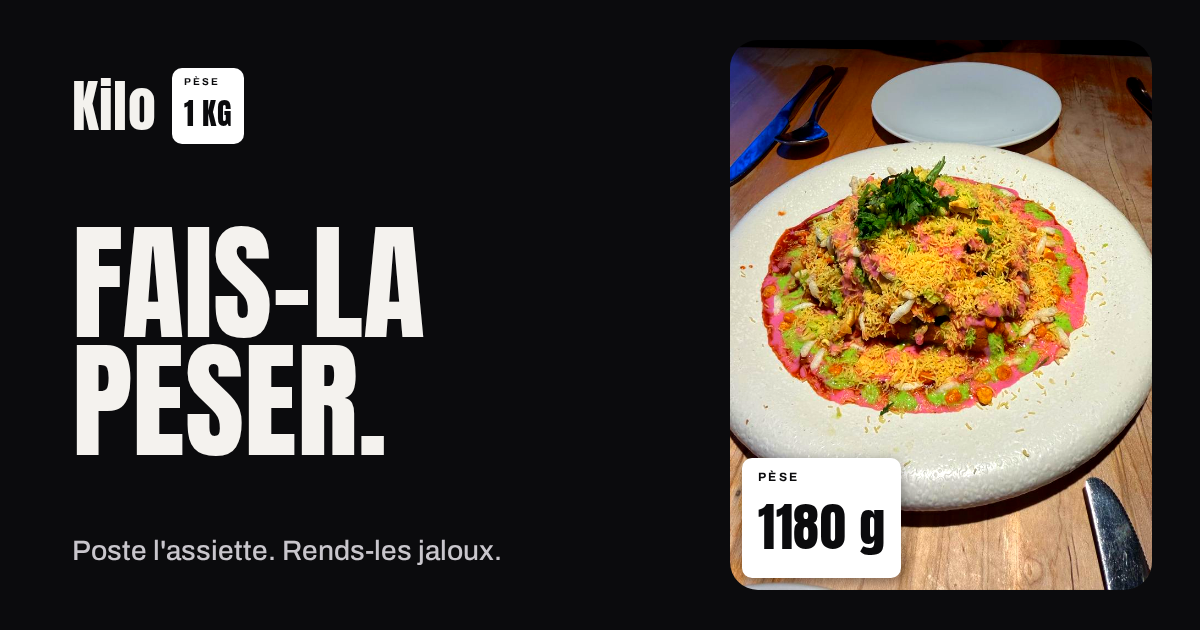
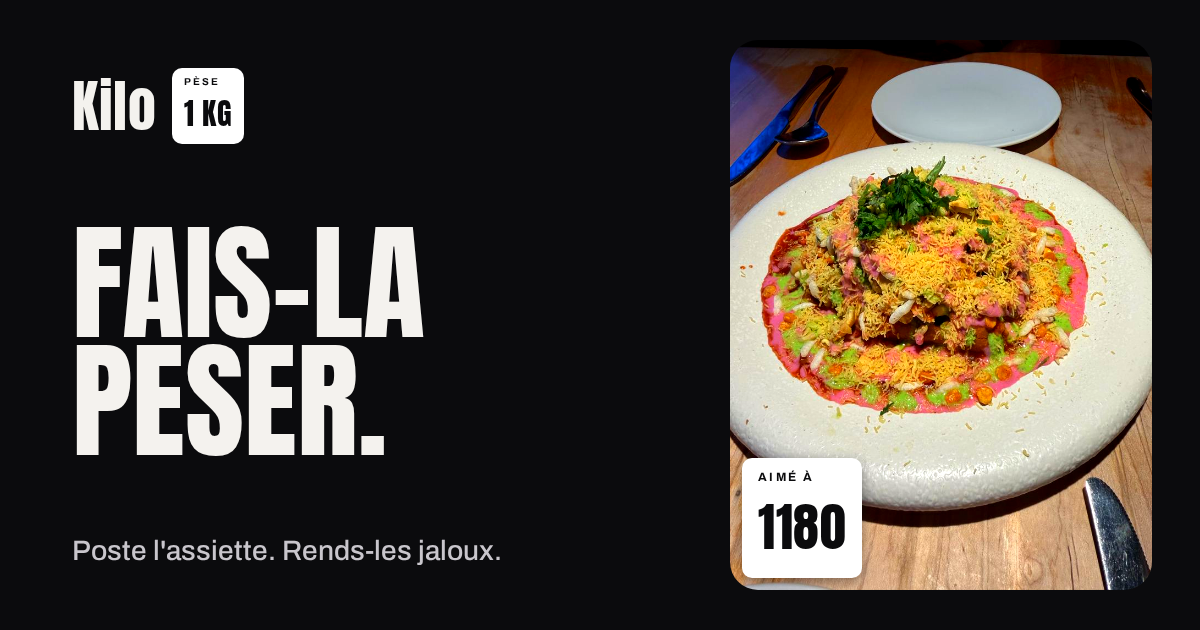
Love scale instead of grams

Changed region(s): [[0.7092, 0.7238, 0.7708, 0.9349], [0.6475, 0.754, 0.6783, 0.7841]]

diff --git a/fr/index.html b/fr/index.html
@@ -1,7 +1,7 @@
 <!doctype html><html lang="fr-CA"><head><meta charset="utf-8"><meta name="viewport" content="width=device-width,initial-scale=1">
 <title>Kilo — Fais-la peser.</title>
 <link rel="canonical" href="https://ymatagne.github.io/kilo-landing/fr/"><link rel="alternate" hreflang="en-CA" href="https://ymatagne.github.io/kilo-landing/"><link rel="alternate" hreflang="fr-CA" href="https://ymatagne.github.io/kilo-landing/fr/"><link rel="alternate" hreflang="x-default" href="https://ymatagne.github.io/kilo-landing/">
-<meta property="og:type" content="website"><meta property="og:site_name" content="Kilo"><meta property="og:title" content="Kilo — Fais-la peser."><meta property="og:description" content="Le réseau bouffe entre chums seulement. Poste ton assiette. Fais-la peser. Rends-les jaloux."><meta property="og:image" content="https://ymatagne.github.io/kilo-landing/og-fr.png"><meta property="og:image:width" content="1200"><meta property="og:image:height" content="630"><meta property="og:image:alt" content="Kilo : Fais-la peser. Une assiette de papdi chaat avec un collant qui affiche 1180 g."><meta property="og:url" content="https://ymatagne.github.io/kilo-landing/fr/"><meta property="og:locale" content="fr_CA"><meta property="og:locale:alternate" content="en_CA"><meta name="twitter:card" content="summary_large_image"><meta name="twitter:image" content="https://ymatagne.github.io/kilo-landing/og-fr.png">
+<meta property="og:type" content="website"><meta property="og:site_name" content="Kilo"><meta property="og:title" content="Kilo — Fais-la peser."><meta property="og:description" content="Le réseau bouffe entre chums seulement. Poste ton assiette. Fais-la peser. Rends-les jaloux."><meta property="og:image" content="https://ymatagne.github.io/kilo-landing/og-fr.png"><meta property="og:image:width" content="1200"><meta property="og:image:height" content="630"><meta property="og:image:alt" content="Kilo : Fais-la peser. Une assiette de papdi chaat avec un collant qui dit Aimé à 1180."><meta property="og:url" content="https://ymatagne.github.io/kilo-landing/fr/"><meta property="og:locale" content="fr_CA"><meta property="og:locale:alternate" content="en_CA"><meta name="twitter:card" content="summary_large_image"><meta name="twitter:image" content="https://ymatagne.github.io/kilo-landing/og-fr.png">
 <link rel="icon" href="../favicon.ico" sizes="any"><link rel="icon" type="image/png" sizes="32x32" href="../favicon-32.png"><link rel="apple-touch-icon" href="../apple-touch-icon.png"><meta name="theme-color" content="#0B0B0D"><meta name="description" content="Kilo, le réseau bouffe entre chums seulement. Poste ton assiette. Fais-la peser. Rends-les jaloux.">
 <link rel="preconnect" href="https://fonts.googleapis.com"><link rel="preconnect" href="https://fonts.gstatic.com" crossorigin>
 <link href="https://fonts.googleapis.com/css2?family=Anton&family=Archivo:wght@400;500;700&display=swap" rel="stylesheet">
@@ -14,11 +14,11 @@
  <div class="hero-copy"><p class="eyebrow">Réseau bouffe, entre chums seulement</p><h1>Fais-la peser.</h1>
  <p class="lede">Poste l'assiette. Fais-la peser. Rends-les jaloux.</p>
  <p class="quiet">Le réseau bouffe pour ceux qui commandent la deuxième poutine. Pas de calories, pas d'étoiles, pas d'inconnus.</p>
- <div class="row"><a href="#join" class="btn btn-ink">Mets ton nom sur la liste</a><a href="#heft" class="btn btn-ghost">Essaie le Poids</a></div></div>
- <div class="phone" role="img" aria-label="Carte du fil Kilo : Marco a posté un papdi chaat à Toronto, pèse 1180 grammes, Ça vaut la peine : Oui">
+ <div class="row"><a href="#join" class="btn btn-ink">Mets ton nom sur la liste</a><a href="#love" class="btn btn-ghost">Essaie l'Amour</a></div></div>
+ <div class="phone" role="img" aria-label="Carte du fil Kilo : Marco a posté un papdi chaat à Toronto, aimé à 1180, Ça vaut la peine : Oui">
   <div class="phone-in"><div class="pbar"><span class="pt">Les Gros Sacs</span><span class="meta">gang de 6</span></div>
    <article class="card"><div class="chead"><span class="av">M</span><div><b>Marco</b><span class="meta">Toronto · 1 h 12</span></div><span class="chip">Ça vaut la peine · Oui</span></div>
-   <div class="photo"><picture><source srcset="../hero-plate.webp" type="image/webp"><img src="../hero-plate.jpg" width="800" height="1000" alt="" style="filter:saturate(1.35) contrast(1.15)"></picture><span class="sticker on-photo"><small>PÈSE</small><b>1180 g</b><em>Une unité absolue de repas.</em></span></div>
+   <div class="photo"><picture><source srcset="../hero-plate.webp" type="image/webp"><img src="../hero-plate.jpg" width="800" height="1000" alt="" style="filter:saturate(1.35) contrast(1.15)"></picture><span class="sticker on-photo"><small>AIMÉ À</small><b>1180</b><em>Je marierais cette assiette-là.</em></span></div>
    <p class="dish">Papdi chaat, extra sev</p><div class="acts"><span class="chip on">Jaloux · 5</span><span class="chip">Même place?</span></div></article>
   </div></div>
 </section>
@@ -26,17 +26,17 @@
 <section class="how wrap" aria-labelledby="how-h"><p class="eyebrow">Comment ça marche</p><h2 id="how-h">Moins de 20 secondes, de l'assiette au fil.</h2>
 <ol class="steps">
 <li><span class="n">01</span><h3>Shoote</h3><p>La caméra s'ouvre direct. L'assiette refroidit déjà.</p></li>
-<li><span class="n">02</span><h3>Filtre + Poids</h3><p>Choisis un des trois looks. Glisse le Poids jusqu'à ce que ça ait l'air de ce que c'était.</p></li>
+<li><span class="n">02</span><h3>Filtre + Amour</h3><p>Choisis un des trois looks. Glisse l'Amour jusqu'à ce que le chiffre fitte avec le feeling.</p></li>
 <li><span class="n">03</span><h3>Ça vaut la peine?</h3><p>Oui ou Non. Ce tap-là publie. Pas d'écran de révision.</p></li>
 <li><span class="n">04</span><h3>Ta gang de 6</h3><p>Ça atterrit dans le fil de ta gang. Personne d'autre. Jamais d'inconnus.</p></li>
 </ol></section>
 
-<section id="heft" class="heft wrap" aria-labelledby="heft-h"><div class="heft-copy"><p class="eyebrow">Le Poids</p><h2 id="heft-h">Les grammes, c'est un score. Pas une balance.</h2>
-<p class="quiet">C'est toi qui décides. On ne pèse jamais l'assiette. Le collant va d'un raisonnable 320 g à un kilo et demi, et c'est ça, la joke.</p>
-<label for="heftIn" class="lbl">Poids <output id="heftOut" for="heftIn">55</output></label>
-<input id="heftIn" type="range" min="0" max="100" value="55" aria-describedby="verdict">
-<p id="verdict" class="verdict" aria-live="polite">Belle assiette. Sieste en vue.</p></div>
-<div class="photo big"><picture><source srcset="../heft-plate.webp" type="image/webp"><img id="heftImg" src="../heft-plate.jpg" width="1200" height="1200" loading="lazy" decoding="async" alt="Sauté thaï au basilic avec riz et œuf frit"></picture><span class="sticker on-photo lg"><small>PÈSE</small><b id="grams">947 g</b></span></div>
+<section id="love" class="love wrap" aria-labelledby="love-h"><div class="love-copy"><p class="eyebrow">Le curseur d'Amour</p><h2 id="love-h">Le chiffre, c'est de l'amour. Rien d'autre.</h2>
+<p class="quiet">C'est toi qui décides. On ne mesure jamais l'assiette, on te demande juste ce que tu ressens pour elle. Le score va d'un poli 320 à un 1460 complètement épris, et l'assiette a pas besoin de te le dire en retour.</p>
+<label for="loveIn" class="lbl">Amour <output id="loveOut" for="loveIn">55</output></label>
+<input id="loveIn" type="range" min="0" max="100" value="55" aria-describedby="verdict">
+<p id="verdict" class="verdict" aria-live="polite">Pas mal en amour.</p></div>
+<div class="photo big"><picture><source srcset="../heft-plate.webp" type="image/webp"><img id="loveImg" src="../heft-plate.jpg" width="1200" height="1200" loading="lazy" decoding="async" alt="Sauté thaï au basilic avec riz et œuf frit"></picture><span class="sticker on-photo lg"><small>AIMÉ À</small><b id="score">947</b></span></div>
 </section>
 
 <section class="filters" aria-labelledby="f-h"><div class="wrap"><p class="eyebrow dark">Trois filtres. Nommés, pas numérotés.</p><h2 id="f-h">Choisis ton look.</h2>
@@ -46,19 +46,19 @@
 <figure><div class="photo"><picture><source srcset="../filter-3am.webp" type="image/webp"><img src="../filter-3am.jpg" width="1000" height="1000" loading="lazy" decoding="async" alt="Sauté thaï au basilic avec riz et œuf frit, filtre 3am Regret" style="filter:brightness(1.2) contrast(1.6) saturate(1.5)"></picture></div><figcaption><h3>3am Regret</h3><p>Flash de cell, comptoir au néon. Zéro regret pour l'assiette. Quelques-uns pour l'heure.</p></figcaption></figure>
 </div></div></section>
 
-<section class="weigh wrap" aria-labelledby="w-h"><div><p class="eyebrow">La pesée du dimanche</p><h2 id="w-h">Dimanche, 23 h 59. Quelqu'un gagne le titre.</h2>
-<p class="quiet">Les grammes de chaque assiette s'additionnent. La semaine ferme, la gang est classée, et le premier repart avec le titre de Gros Sac de la Semaine. Tout le monde reçoit une carte. Une d'elles est faite pour être postée.</p></div>
-<div class="board" role="table" aria-label="Exemple de pesée d'une gang"><div class="bhead"><b>Les Gros Sacs</b><span class="meta">Semaine fermée · dim. 23 h 59</span></div>
-<div class="brow champ" role="row"><span>1</span><span><b>Marco</b><small>Gros Sac de la Semaine</small></span><span>6 840 g</span></div>
-<div class="brow" role="row"><span>2</span><span><b>Yan</b><small>7 assiettes</small></span><span>6 412 g</span></div>
-<div class="brow" role="row"><span>3</span><span><b>Amélie</b><small>6 assiettes</small></span><span>5 903 g</span></div>
-<div class="brow" role="row"><span>4</span><span><b>Dev</b><small>5 assiettes</small></span><span>4 288 g</span></div>
-<div class="brow" role="row"><span>5</span><span><b>Sofia</b><small>4 assiettes</small></span><span>3 751 g</span></div>
-<div class="brow" role="row"><span>6</span><span><b>Jules</b><small>2 assiettes</small></span><span>1 894 g</span></div></div></section>
+<section class="lovecount wrap" aria-labelledby="w-h"><div><p class="eyebrow">Le décompte d'amour du dimanche</p><h2 id="w-h">Dimanche, 23 h 59. Quelqu'un gagne le titre.</h2>
+<p class="quiet">L'amour de chaque assiette s'additionne. La semaine ferme, la gang est classée, et celui qui a le plus aimé ses assiettes repart avec le titre de Gros Sac de la Semaine. Tout le monde reçoit une carte. Une d'elles est faite pour être postée.</p></div>
+<div class="board" role="table" aria-label="Exemple de décompte d'amour d'une gang"><div class="bhead"><b>Les Gros Sacs</b><span class="meta">Amour total · dim. 23 h 59</span></div>
+<div class="brow champ" role="row"><span>1</span><span><b>Marco</b><small>Gros Sac de la Semaine</small></span><span>6 840</span></div>
+<div class="brow" role="row"><span>2</span><span><b>Yan</b><small>7 assiettes</small></span><span>6 412</span></div>
+<div class="brow" role="row"><span>3</span><span><b>Amélie</b><small>6 assiettes</small></span><span>5 903</span></div>
+<div class="brow" role="row"><span>4</span><span><b>Dev</b><small>5 assiettes</small></span><span>4 288</span></div>
+<div class="brow" role="row"><span>5</span><span><b>Sofia</b><small>4 assiettes</small></span><span>3 751</span></div>
+<div class="brow" role="row"><span>6</span><span><b>Jules</b><small>2 assiettes</small></span><span>1 894</span></div></div></section>
 
 <section class="mani wrap" aria-labelledby="m-h"><p class="eyebrow">Le manifeste</p><h2 id="m-h">Six non. Non négociables.</h2>
 <ol class="pgrid">
-<li><h3>Pas de calories.</h3><p>Pas affichées, pas devinées, pas stockées. Le collant, c'est un chiffre pour rire.</p></li>
+<li><h3>Pas de calories.</h3><p>Pas affichées, pas devinées, pas stockées. Le collant, c'est un score d'amour, pas une mesure.</p></li>
 <li><h3>Pas d'étoiles.</h3><p>La seule critique : ça vaut la peine. Oui ou Non.</p></li>
 <li><h3>Pas d'inconnus.</h3><p>Ta gang, jusqu'à six. Pas d'onglet Explorer, pas de profils publics.</p></li>
 <li><h3>Pas d'option légère.</h3><p>Pas d'étiquettes santé, pas de rappels de portion. On ne commente pas.</p></li>

diff --git a/index.html b/index.html
@@ -1,7 +1,7 @@
 <!doctype html><html lang="en"><head><meta charset="utf-8"><meta name="viewport" content="width=device-width,initial-scale=1">
 <title>Kilo — Make it heavier.</title>
 <link rel="canonical" href="https://ymatagne.github.io/kilo-landing/"><link rel="alternate" hreflang="en-CA" href="https://ymatagne.github.io/kilo-landing/"><link rel="alternate" hreflang="fr-CA" href="https://ymatagne.github.io/kilo-landing/fr/"><link rel="alternate" hreflang="x-default" href="https://ymatagne.github.io/kilo-landing/">
-<meta property="og:type" content="website"><meta property="og:site_name" content="Kilo"><meta property="og:title" content="Kilo — Make it heavier."><meta property="og:description" content="The friends-only food network. Post the plate. Make it heavier. Make them jealous."><meta property="og:image" content="https://ymatagne.github.io/kilo-landing/og.png"><meta property="og:image:width" content="1200"><meta property="og:image:height" content="630"><meta property="og:image:alt" content="Kilo: Make it heavier. A plate of papdi chaat with a sticker that weighs in at 1180 g."><meta property="og:url" content="https://ymatagne.github.io/kilo-landing/"><meta property="og:locale" content="en_CA"><meta property="og:locale:alternate" content="fr_CA"><meta name="twitter:card" content="summary_large_image"><meta name="twitter:image" content="https://ymatagne.github.io/kilo-landing/og.png">
+<meta property="og:type" content="website"><meta property="og:site_name" content="Kilo"><meta property="og:title" content="Kilo — Make it heavier."><meta property="og:description" content="The friends-only food network. Post the plate. Make it heavier. Make them jealous."><meta property="og:image" content="https://ymatagne.github.io/kilo-landing/og.png"><meta property="og:image:width" content="1200"><meta property="og:image:height" content="630"><meta property="og:image:alt" content="Kilo: Make it heavier. A plate of papdi chaat with a sticker reading Loved at 1180."><meta property="og:url" content="https://ymatagne.github.io/kilo-landing/"><meta property="og:locale" content="en_CA"><meta property="og:locale:alternate" content="fr_CA"><meta name="twitter:card" content="summary_large_image"><meta name="twitter:image" content="https://ymatagne.github.io/kilo-landing/og.png">
 <link rel="icon" href="favicon.ico" sizes="any"><link rel="icon" type="image/png" sizes="32x32" href="favicon-32.png"><link rel="apple-touch-icon" href="apple-touch-icon.png"><meta name="theme-color" content="#0B0B0D"><meta name="description" content="Kilo is the friends-only food network. Post the plate. Make it heavier. Make them jealous.">
 <link rel="preconnect" href="https://fonts.googleapis.com"><link rel="preconnect" href="https://fonts.gstatic.com" crossorigin>
 <link href="https://fonts.googleapis.com/css2?family=Anton&family=Archivo:wght@400;500;700&display=swap" rel="stylesheet">
@@ -14,11 +14,11 @@
  <div class="hero-copy"><p class="eyebrow">Friends-only food network</p><h1>Make it heavier.</h1>
  <p class="lede">Post the plate. Make it heavier. Make them jealous.</p>
  <p class="quiet">The food network for people who order the second poutine. No calories, no stars, no strangers.</p>
- <div class="row"><a href="#join" class="btn btn-ink">Get on the list</a><a href="#heft" class="btn btn-ghost">Try the Heft slider</a></div></div>
- <div class="phone" role="img" aria-label="Kilo feed card: Marco posted papdi chaat in Toronto, weighs in at 1180 grams, Worth it: Oui">
+ <div class="row"><a href="#join" class="btn btn-ink">Get on the list</a><a href="#love" class="btn btn-ghost">Try the Love slider</a></div></div>
+ <div class="phone" role="img" aria-label="Kilo feed card: Marco posted papdi chaat in Toronto, loved at 1180, Worth it: Oui">
   <div class="phone-in"><div class="pbar"><span class="pt">Les Gros Sacs</span><span class="meta">crew of 6</span></div>
    <article class="card"><div class="chead"><span class="av">M</span><div><b>Marco</b><span class="meta">Toronto · 1:12 am</span></div><span class="chip">Worth it · Oui</span></div>
-   <div class="photo"><picture><source srcset="hero-plate.webp" type="image/webp"><img src="hero-plate.jpg" width="800" height="1000" alt="" style="filter:saturate(1.35) contrast(1.15)"></picture><span class="sticker on-photo"><small>WEIGHS IN AT</small><b>1180 g</b><em>Absolute unit of a meal.</em></span></div>
+   <div class="photo"><picture><source srcset="hero-plate.webp" type="image/webp"><img src="hero-plate.jpg" width="800" height="1000" alt="" style="filter:saturate(1.35) contrast(1.15)"></picture><span class="sticker on-photo"><small>LOVED AT</small><b>1180</b><em>Would marry this plate.</em></span></div>
    <p class="dish">Papdi chaat, extra sev</p><div class="acts"><span class="chip on">Jealous · 5</span><span class="chip">Same place?</span></div></article>
   </div></div>
 </section>
@@ -26,17 +26,17 @@
 <section class="how wrap" aria-labelledby="how-h"><p class="eyebrow">How it works</p><h2 id="how-h">Under 20 seconds, plate to posted.</h2>
 <ol class="steps">
 <li><span class="n">01</span><h3>Shoot</h3><p>The camera opens on launch. The plate is already getting cold.</p></li>
-<li><span class="n">02</span><h3>Filter + Heft</h3><p>Pick one of three looks. Slide Heft until it looks like it should.</p></li>
+<li><span class="n">02</span><h3>Filter + Love</h3><p>Pick one of three looks. Slide Love until the number matches the feeling.</p></li>
 <li><span class="n">03</span><h3>Worth it?</h3><p>Oui or Non. That tap is the publish button. No review screen.</p></li>
 <li><span class="n">04</span><h3>Your crew of 6</h3><p>It lands in your crew's feed. Nobody else. Never strangers.</p></li>
 </ol></section>
 
-<section id="heft" class="heft wrap" aria-labelledby="heft-h"><div class="heft-copy"><p class="eyebrow">The Heft slider</p><h2 id="heft-h">The grams are a score, not a scale.</h2>
-<p class="quiet">You set it. We never measure the plate. The sticker goes from a sensible 320 g to a kilo and a half, which is the joke.</p>
-<label for="heftIn" class="lbl">Heft <output id="heftOut" for="heftIn">55</output></label>
-<input id="heftIn" type="range" min="0" max="100" value="55" aria-describedby="verdict">
-<p id="verdict" class="verdict" aria-live="polite">Solid plate. Nap incoming.</p></div>
-<div class="photo big"><picture><source srcset="heft-plate.webp" type="image/webp"><img id="heftImg" src="heft-plate.jpg" width="1200" height="1200" loading="lazy" decoding="async" alt="Thai basil stir-fry with rice and a fried egg"></picture><span class="sticker on-photo lg"><small>WEIGHS IN AT</small><b id="grams">947 g</b></span></div>
+<section id="love" class="love wrap" aria-labelledby="love-h"><div class="love-copy"><p class="eyebrow">The Love slider</p><h2 id="love-h">The number is love. Nothing else.</h2>
+<p class="quiet">You set it. We never measure the plate, we just ask how you feel about it. The score runs from a polite 320 to a besotted 1460, and the plate never has to say it back.</p>
+<label for="loveIn" class="lbl">Love <output id="loveOut" for="loveIn">55</output></label>
+<input id="loveIn" type="range" min="0" max="100" value="55" aria-describedby="verdict">
+<p id="verdict" class="verdict" aria-live="polite">Seriously into it.</p></div>
+<div class="photo big"><picture><source srcset="heft-plate.webp" type="image/webp"><img id="loveImg" src="heft-plate.jpg" width="1200" height="1200" loading="lazy" decoding="async" alt="Thai basil stir-fry with rice and a fried egg"></picture><span class="sticker on-photo lg"><small>LOVED AT</small><b id="score">947</b></span></div>
 </section>
 
 <section class="filters" aria-labelledby="f-h"><div class="wrap"><p class="eyebrow dark">Three filters. Named, not numbered.</p><h2 id="f-h">Pick a look.</h2>
@@ -46,19 +46,19 @@
 <figure><div class="photo"><picture><source srcset="filter-3am.webp" type="image/webp"><img src="filter-3am.jpg" width="1000" height="1000" loading="lazy" decoding="async" alt="Thai basil stir-fry with rice and a fried egg, in the 3am Regret filter" style="filter:brightness(1.2) contrast(1.6) saturate(1.5)"></picture></div><figcaption><h3>3am Regret</h3><p>Phone flash, fluorescent counter, zero regrets about the plate. Some about the time.</p></figcaption></figure>
 </div></div></section>
 
-<section class="weigh wrap" aria-labelledby="w-h"><div><p class="eyebrow">Sunday weigh-in</p><h2 id="w-h">23:59 Sunday. Somebody gets the title.</h2>
-<p class="quiet">Every plate's grams add up. The week closes, the crew is ranked, and the top of the board takes home Gros Sac de la Semaine. Everyone gets a card. One of them is made to be posted.</p></div>
-<div class="board" role="table" aria-label="Sample crew weigh-in"><div class="bhead"><b>Les Gros Sacs</b><span class="meta">Week closed · Sun 23:59</span></div>
-<div class="brow champ" role="row"><span>1</span><span><b>Marco</b><small>Gros Sac de la Semaine</small></span><span>6 840 g</span></div>
-<div class="brow" role="row"><span>2</span><span><b>Yan</b><small>7 plates</small></span><span>6 412 g</span></div>
-<div class="brow" role="row"><span>3</span><span><b>Amélie</b><small>6 plates</small></span><span>5 903 g</span></div>
-<div class="brow" role="row"><span>4</span><span><b>Dev</b><small>5 plates</small></span><span>4 288 g</span></div>
-<div class="brow" role="row"><span>5</span><span><b>Sofia</b><small>4 plates</small></span><span>3 751 g</span></div>
-<div class="brow" role="row"><span>6</span><span><b>Jules</b><small>2 plates</small></span><span>1 894 g</span></div></div></section>
+<section class="lovecount wrap" aria-labelledby="w-h"><div><p class="eyebrow">Sunday love count</p><h2 id="w-h">23:59 Sunday. Somebody gets the title.</h2>
+<p class="quiet">Every plate's love adds up. The week closes, the crew is ranked, and whoever loved their plates the hardest takes home Gros Sac de la Semaine. Everyone gets a card. One of them is made to be posted.</p></div>
+<div class="board" role="table" aria-label="Sample crew love count"><div class="bhead"><b>Les Gros Sacs</b><span class="meta">Total love · Sun 23:59</span></div>
+<div class="brow champ" role="row"><span>1</span><span><b>Marco</b><small>Gros Sac de la Semaine</small></span><span>6 840</span></div>
+<div class="brow" role="row"><span>2</span><span><b>Yan</b><small>7 plates</small></span><span>6 412</span></div>
+<div class="brow" role="row"><span>3</span><span><b>Amélie</b><small>6 plates</small></span><span>5 903</span></div>
+<div class="brow" role="row"><span>4</span><span><b>Dev</b><small>5 plates</small></span><span>4 288</span></div>
+<div class="brow" role="row"><span>5</span><span><b>Sofia</b><small>4 plates</small></span><span>3 751</span></div>
+<div class="brow" role="row"><span>6</span><span><b>Jules</b><small>2 plates</small></span><span>1 894</span></div></div></section>
 
 <section class="mani wrap" aria-labelledby="m-h"><p class="eyebrow">The manifesto</p><h2 id="m-h">Six nos. Not negotiable.</h2>
 <ol class="pgrid">
-<li><h3>No calories.</h3><p>Not shown, not guessed, not stored. The sticker is a joke number.</p></li>
+<li><h3>No calories.</h3><p>Not shown, not guessed, not stored. The sticker is a love score, not a measurement.</p></li>
 <li><h3>No stars.</h3><p>The only review is Worth it. Oui or Non.</p></li>
 <li><h3>No strangers.</h3><p>Your crew, up to six. No explore tab, no public profiles.</p></li>
 <li><h3>No lighter option.</h3><p>No health tags, no portion nudges. We don't editorialize.</p></li>

diff --git a/styles.css b/styles.css
@@ -36,8 +36,8 @@ section{padding-top:96px;padding-bottom:96px}
 .steps{list-style:none;padding:0;display:grid;grid-template-columns:repeat(4,1fr);gap:16px;margin-top:24px}
 .steps li,.pgrid li{background:var(--s);border:1px solid var(--b);border-radius:24px;padding:28px}
 .n{font:800 15px 'Anton';color:var(--m);display:block;margin-bottom:28px}.steps p,.pgrid p{color:var(--q);font-size:15px}
-.heft{display:grid;grid-template-columns:1fr 1fr;gap:56px;align-items:center}
-.heft .photo.big{max-width:480px;width:100%;justify-self:center}
+.love{display:grid;grid-template-columns:1fr 1fr;gap:56px;align-items:center}
+.love .photo.big{max-width:480px;width:100%;justify-self:center}
 .lbl{display:flex;justify-content:space-between;font:700 15px 'Archivo';margin-top:32px}
 output{font:800 22px 'Anton'}
 input[type=range]{width:100%;height:44px;accent-color:var(--ink);cursor:pointer}
@@ -45,7 +45,7 @@ input[type=range]{width:100%;height:44px;accent-color:var(--ink);cursor:pointer}
 .filters{background:#F4F2EE;color:#0B0B0D}.filters p{color:#3d3b40}
 .fgrid{display:grid;grid-template-columns:repeat(3,1fr);gap:24px;margin-top:24px}
 .fgrid figcaption{padding:16px 4px 0}.fgrid .photo{aspect-ratio:1}
-.weigh{display:grid;grid-template-columns:1fr 1fr;gap:56px;align-items:center}
+.lovecount{display:grid;grid-template-columns:1fr 1fr;gap:56px;align-items:center}
 .board{background:var(--s);border:1px solid var(--b);border-radius:28px;padding:16px}
 .bhead{display:flex;justify-content:space-between;align-items:baseline;padding:8px 8px 16px;font-family:'Anton'}
 .brow{display:grid;grid-template-columns:32px 1fr auto;align-items:center;gap:12px;background:var(--s2);border-radius:16px;padding:12px 16px;margin-top:8px;font-variant-numeric:tabular-nums}
@@ -60,14 +60,14 @@ input[type=range]{width:100%;height:44px;accent-color:var(--ink);cursor:pointer}
 .err{grid-column:1/-1;color:var(--q);font-size:14px;min-height:1em}
 .thanks{margin-top:32px;background:var(--s);border:1px solid var(--b);border-radius:28px;padding:32px;display:flex;flex-direction:column;align-items:center;gap:12px}
 .foot{border-top:1px solid var(--b);padding-top:40px;padding-bottom:48px;display:flex;flex-direction:column;gap:12px}
-@media(max-width:960px){.hero,.heft,.weigh{grid-template-columns:1fr}.steps{grid-template-columns:1fr 1fr}.pgrid,.fgrid{grid-template-columns:1fr 1fr}}
+@media(max-width:960px){.hero,.love,.lovecount{grid-template-columns:1fr}.steps{grid-template-columns:1fr 1fr}.pgrid,.fgrid{grid-template-columns:1fr 1fr}}
 @media(max-width:600px){.steps,.pgrid,.fgrid,.form{grid-template-columns:1fr}.phone{width:100%;max-width:340px}section{padding-top:64px;padding-bottom:64px}.hero{padding-top:24px}.nav .btn{padding:0 16px;font-size:14px}h1{letter-spacing:-2px}}
 @media(prefers-reduced-motion:reduce){html{scroll-behavior:auto}*{transition:none!important;animation:none!important}}
 [hidden]{display:none!important}
 h1,h2{font-weight:400;letter-spacing:0;text-transform:uppercase;line-height:.9}h1{font-size:clamp(64px,10vw,140px)}.sticker b{font-weight:400;letter-spacing:.5px}
 .wordmark,h3,.dish,.pt,.bhead,.brow span,.n,output,.verdict{font-weight:400;letter-spacing:.4px}.wordmark{font-size:32px}h3{font-size:24px}.verdict{font-size:26px}
 section.wrap{padding-top:96px;padding-bottom:96px}@media(max-width:600px){section.wrap{padding-top:64px;padding-bottom:64px}.hero.wrap{padding-top:24px}}.sticker.sm b{letter-spacing:.5px}
-.heft .photo.big{aspect-ratio:1;border-radius:24px}.heft .photo picture{display:block;width:100%;height:100%}
+.love .photo.big{aspect-ratio:1;border-radius:24px}.love .photo picture{display:block;width:100%;height:100%}
 .photo picture{display:block;width:100%;height:100%}
 .nav-r{display:flex;align-items:center;gap:12px}
 .lang{display:flex;border:1px solid var(--b);border-radius:999px;padding:3px}

diff --git a/app.js b/app.js
@@ -1,13 +1,13 @@
 const FR=document.documentElement.lang.startsWith('fr');
-const T=FR?{v:['Lunch léger. Respectable.','Belle assiette. Sieste en vue.','Une unité absolue de repas.'],g:'grammes',e:'Il nous faut un nom et un courriel ou un numéro qui marche.'}
-:{v:['Light lunch. Respectable.','Solid plate. Nap incoming.','Absolute unit of a meal.'],g:'grams',e:'Need a name and a working email or phone.'};
-const grams=h=>320+Math.floor(11.4*h);
+const T=FR?{v:['Intérêt poli.','Pas mal en amour.','Je marierais cette assiette-là.'],g:'aimé à',e:'Il nous faut un nom et un courriel ou un numéro qui marche.'}
+:{v:['Polite interest.','Seriously into it.','Would marry this plate.'],g:'loved at',e:'Need a name and a working email or phone.'};
+const score=h=>320+Math.floor(11.4*h);
 const verdict=h=>T.v[h<30?0:h<=70?1:2];
-const i=document.getElementById('heftIn');
-function upd(){const h=+i.value;document.getElementById('heftOut').textContent=h;document.getElementById('grams').textContent=grams(h)+' g';
+const i=document.getElementById('loveIn');
+function upd(){const h=+i.value;document.getElementById('loveOut').textContent=h;document.getElementById("score").textContent=score(h);
 document.getElementById('verdict').textContent=verdict(h);
-document.getElementById('heftImg').style.filter=`saturate(${(1+.9*h/100).toFixed(3)}) contrast(${(1+.38*h/100).toFixed(3)})`;i.setAttribute('aria-valuetext',`${h}, ${grams(h)} ${T.g}`);}
-i.addEventListener('input',upd);upd();window.kiloGrams=grams;
+document.getElementById('loveImg').style.filter=`saturate(${(1+.9*h/100).toFixed(3)}) contrast(${(1+.38*h/100).toFixed(3)})`;i.setAttribute('aria-valuetext',`${h}, ${T.g} ${score(h)}`);}
+i.addEventListener('input',upd);upd();window.kiloScore=score;
 document.getElementById('wl').addEventListener('submit',e=>{e.preventDefault();const n=nm.value.trim(),c=ct.value.trim(),err=document.getElementById('err');
 if(!n||!(/\S+@\S+\.\S+/.test(c)||/^[+\d][\d\s().-]{6,}$/.test(c))){err.textContent=T.e;return;}
 e.target.hidden=true;const t=document.getElementById('thanks');t.hidden=false;t.focus();});
